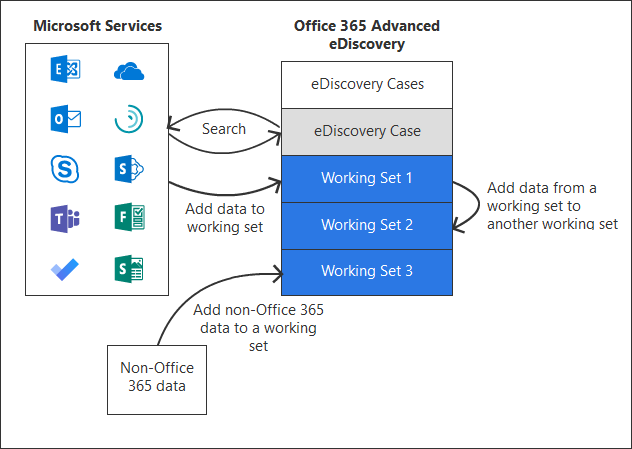
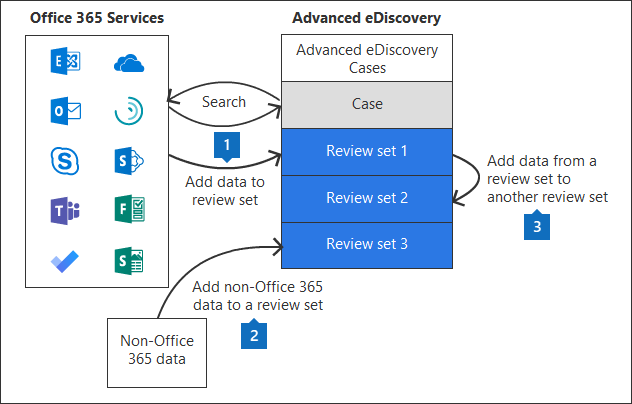
revised multiple topics to fix old refernces to "working set".

diff --git a/SecurityCompliance/compliance20/add-data-to-review-set-from-another-review-set.md b/SecurityCompliance/compliance20/add-data-to-review-set-from-another-review-set.md
@@ -21,20 +21,22 @@ description: ""
 
 In some cases, it may be necessary to carve out a portion of documents from one review set and work with them individually in another review set.  This is especially useful if you've culled content in a review set and want to run analytics on the subset of data.
 
-Use the following workflow to add content from one review set to another.
+Follow the workflow in this article to add content from one review set to another.
 
 ## Before you begin
 
-Before you start, you'll need to create a new review set to add the data to.  A new review set can be added on the **Review sets** tab of the case. For more information, see [Manage review sets](managing-review-sets.md).
+Before you start, you'll need to create a new review set to add the data to.  A new review set can be added on the **Review sets** tab of the case. For more information, see [Create a review set](managing-review-sets.md#create-a-review-set).
 
 ## Step 1: Identify content to add to another review set
 
-You can add content to a review set by selecting emails and documents in the document grid or all items in a search result.  If choosing to add selected items, select the items, click **Action**, and then click **Add to another review set**.
+You can add content from one review set to another one by selecting specific documents in the source review set or b seleting all items returned by review set query.  If you're adding selected items, select the items, click **Action**, and then click **Add to another review set**.
 
 ![Add to another review set](../media/64f2a4d4-eba3-4ab3-a3ba-d519feea3142.png)
 
 ## Step 2: Specify options for adding to another review set
 
-In the **Add to another review set** flyout page, choose the review set you want to add the items to. Choose whether to add **All search results** or **Selected items**.  Additional information provides options to include all metadata from the items and finally whether or not the document tags should be included in the new review set.  After clicking **Ok** a new job will be created to add the content to a review set; you can monitor the progress of that job on the **Job** tab. For more information, see [Manage jobs](managing-jobs-ediscovery20.md).
+In the **Add to another review set options** flyout page, choose the review set you want to add the items to. Choose whether to add **All search results** or **Selected items**.  Additional information provides options to include all metadata from the items and whether to include the tags (by selecting the **Labels** checkbox) from the source review set when the documents are added to the new review set.  
 
 ![Add to another review set](../media/6440ee44-68fd-44d7-b43a-3a477345525c.png)
+
+After you click **Ok**, a new job (named **Adding data to another review set**) is created to add the content to a another review set.  You can go to **Jobs** tab and monitor the progress of this job. For more information, see [Manage jobs](managing-jobs-ediscovery20.md).

diff --git a/SecurityCompliance/compliance20/managing-jobs-ediscovery20.md b/SecurityCompliance/compliance20/managing-jobs-ediscovery20.md
@@ -24,7 +24,7 @@ Here's a list of the jobs (which are typically long-running processes) that are 
 | Job type           | Description     |
 | :----------------- | :----------     |
 |Adding data to a review set | A user adds the results of a search to a review set. This job consist of two sub jobs: </br> </br>• **GatheringItems** - A list of items that match the search query (and the Office 365 data source that they're located in) is generated. </br>• **Ingestion & Indexing** - The items that match the search query are copied to an Azure storage location (in a process called *ingestion*) and then those items in the Azure storage location are re-indexed. This new index is used when querying and analyzing items in the data set. </br></br>For more information, see [Add search results to a review set](add-data-to-review-set.md). |
-|Adding data to another review set | A user adds documents from one review set to a different review set in the same case.|
+|Adding data to another review set | A user adds documents from one review set to a different review set in the same case. For more information, see [Add data to a review set from another review set](add-data-to-review-set-from-another-review-set.md).|
 |Adding non-Office 365 data to a review set | A user uploads non-Office 365 data to a review set. The data is also indexed during this process. For example, files from an on-premises file server or a client computer are uploaded to a review set. For more information, see [Load non-Office 365 data into a review set](load-non-office365-data.md).| 
 |Adding remediated data to a review set | Data with processing errors is remediated and loaded back into a review set. For more information, see [Error remediation when processing data](error-remediation.md). | 
 |Comparing load sets | A user looks at the differences between different load sets in a review set. A load set is an instance of adding data to a review set. For example, if you add the results of two different searches to the same review set, each would represent a load set. For more information, see [Manage load sets](manage-load-sets.md). |

diff --git a/SecurityCompliance/compliance20/managing-review-sets.md b/SecurityCompliance/compliance20/managing-review-sets.md
@@ -37,16 +37,16 @@ Review sets can be created on the **Review sets** tab by clicking **+ Add review
 
 ![Add review set](../media/f45c51d9-585d-47d1-b7fb-0288715e0b6a.png)
 
-A flyout is displayed.  Simply name the review set can click the **Save**.  The new review set is displayed on the **Review sets** tab.
+On the **Add review set** flyout page, type a name for the review set and then click **Save**.  The new review set is displayed in the list on the **Review sets** tab.
 
-![Add review set flyout](../media/5e5c99f8-42ca-4c2f-960f-f1a5709569d1.png)
+![New review set listed on Review set tab](../media/AeDnewreviewset.png)
 
-There are three ways to add content to a review set:
+There are three different ways to add data to a review set in an Advanced eDiscovery case.
+
+![Three ways to add to a review sets](../media/1f1f4efd-c03b-4255-bc3d-df358e56549c.png)
 
 1. [Add search results to a review set](add-data-to-review-set.md)
 
 2. [Load non-Office 365 data into a review set](load-non-office365-data.md)
 
-3. [Add data to a review set from another review set](add-data-to-review-set-from-another-review-set.md).
-
-![review sets](../media/1f1f4efd-c03b-4255-bc3d-df358e56549c.png)
+3. [Add data to a review set from another review set](add-data-to-review-set-from-another-review-set.md)
